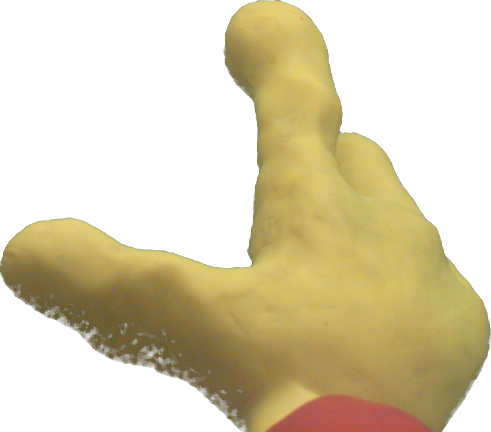
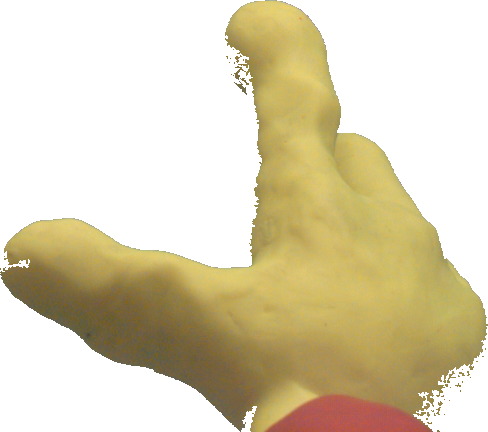
Room polish: solid hand, wider arm, opaque scale
Three fixes from playtest feedback:
- The pointing-hand cursor had speckled interior holes (the saturation
  key dropped low-chroma clay pixels). Re-key HAND03 with edge flood-fill
  (tools/convert-npics --flood) so the whole hand is solid; only the
  connected grey matte is removed.
- The red arm was a thin column (w=0.2) far narrower than the hand. The
  reference video shows a thick arm ~the width of the hand base; widen to
  w=0.5 (matched to the measured wrist stub) and start it a touch higher.
- A fresh "tottering" scale was drawn at alpha 0.5 (my embellishment).
  The original isn't faded — render it fully opaque.

diff --git a/src/view/scale-view.ts b/src/view/scale-view.ts
@@ -2,7 +2,7 @@
  * Draws the balance using the original's distinct tilt bitmaps (SCALE01 level,
  * SCALE02 left-heavier, SCALE04 right-heavier) — the beam art itself shows which
  * side is heavier, so the sprite is centred and never rotated. A tottering scale
- * (a missing neighbour, matches nothing) shows the level beam, faded.
+ * (a missing neighbour, matches nothing) shows the level beam (fully opaque).
  */
 import * as PIXI from 'pixi.js';
 import { ThingView } from './thing-view';
@@ -32,7 +32,6 @@ export class ScaleView extends ThingView {
     const sprite = new PIXI.Sprite(tex);
     // Anchor near the base (the pivot) so different tilt frames sit on the floor.
     sprite.anchor.set(0.5, 0.85);
-    if (scale.tilt === 'tottering') sprite.alpha = 0.5;
     this.container.addChild(sprite);
   }
 }

diff --git a/src/view/room.ts b/src/view/room.ts
@@ -81,7 +81,7 @@ const HAND_POSES: Record<HandPose, PoseSpec> = {
   // Empty: the POINTING hand (HAND04) — index extended, others curled, like the
   // original's idle cursor. Hotspot at the fingertip (top); red wrist stub at the
   // bottom-centre.
-  open: { key: 'hand-point', anchor: [0.54, 0.02], scale: 0.47, cx: 0.17, w: 0.2, top: 0.86 },
+  open: { key: 'hand-point', anchor: [0.54, 0.02], scale: 0.47, cx: 0.17, w: 0.5, top: 0.82 },
   grab: { key: 'hand-grab', anchor: [0.5, 0.2], scale: 1.2, cx: 0.24, w: 0.41, top: 0.62 },
   // Holding the wand: the hand grips it on the right, tip points left (hotspot);
   // wrist is far right (~0.83w). Wide sprite, so scaled down. (May need tuning.)

diff --git a/tools/verify/checks/add-scale.js b/tools/verify/checks/add-scale.js
@@ -1,0 +1,4 @@
+const { Scale } = await import('/src/model/scale.ts');
+const s = new Scale({ x: 320, y: 250 });
+window.__ttWorld.add(s);
+window.__scaleId = s.id;

diff --git a/tools/verify/checks/scale-info.js b/tools/verify/checks/scale-info.js
@@ -1,0 +1,3 @@
+const w = window.__ttWorld;
+const s = w.all().find(t => t.id === window.__scaleId);
+return { exists: !!s, tilt: s && s.tilt };

diff --git a/docs/assets.md b/docs/assets.md
@@ -72,8 +72,8 @@ textures, clean sans. Driven by theme fields (`cornerRadius`, `borderWidth`,
   blank, for erased boxes — not yet used.)
 - ✅ **Scale** uses distinct tilt bitmaps (scale-view.ts), **centred, never
   rotated**: `scale-level` (SCALE01), `scale-left` (SCALE04, left pan down =
-  left heavier), `scale-right` (SCALE02, right pan down). tottering → level,
-  faded.
+  left heavier), `scale-right` (SCALE02, right pan down). tottering → level
+  beam (fully opaque — a fresh scale is not faded).
 
 ## Frame-based sprite animation
 
